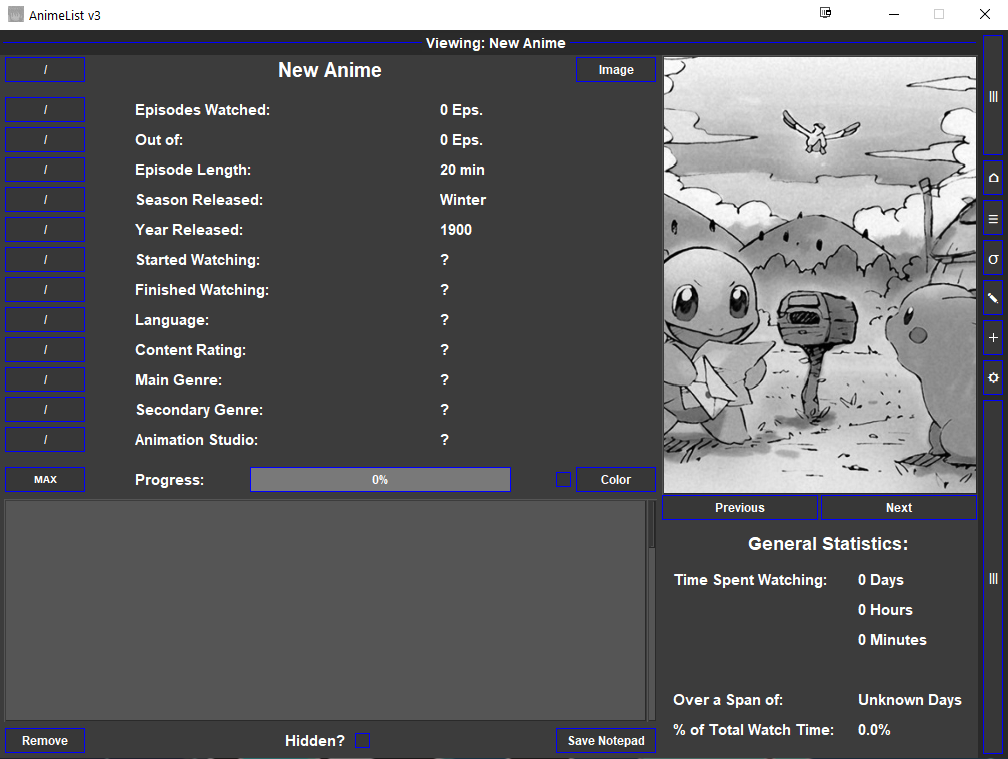
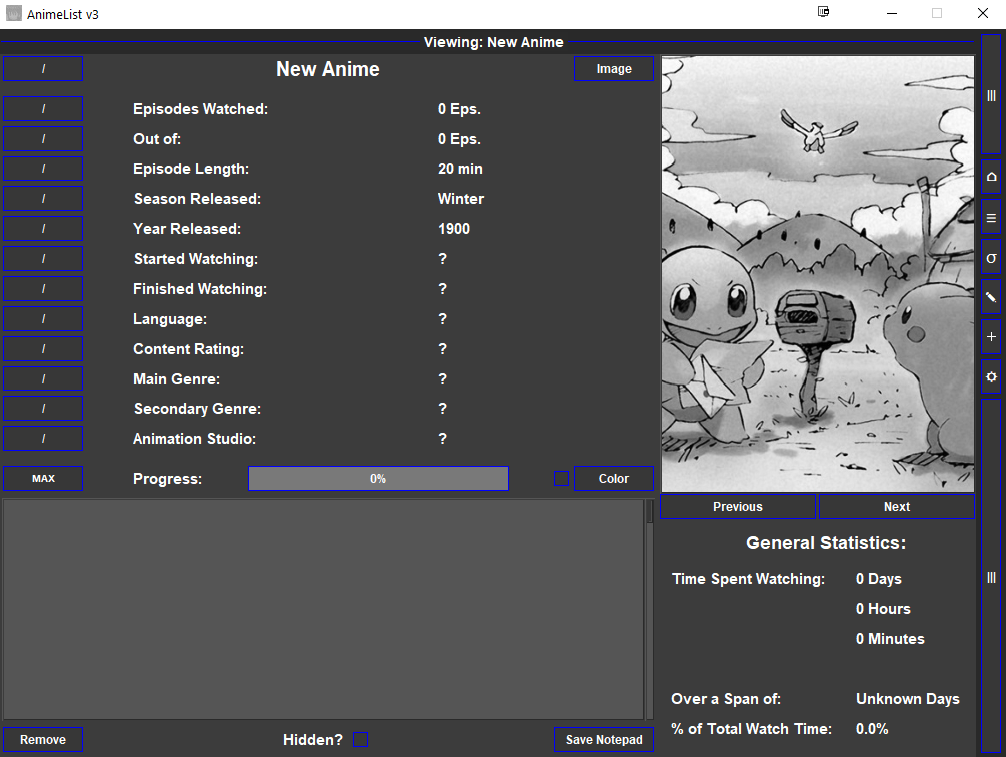
Final Tweaks for Release - increased JTextArea size in AnimePanel and NotesPanel - realigned JScrollBars in StatisticsPanel - edited README - replaced some tutorial images

diff --git a/StatisticsPanel.java b/StatisticsPanel.java
@@ -446,7 +446,7 @@ public class StatisticsPanel extends JPanel {
 
         JScrollBar scrollBar = scrollPane.getVerticalScrollBar();
         scrollPane.remove(scrollBar); 
-        scrollBar.setPreferredSize(new Dimension(10,120));
+        scrollBar.setPreferredSize(new Dimension(10,110));
         scrollBar.setUI(new CustomScrollBarUI(controller,controller.getFieldColor("buttons"),controller.getFieldColor("background1")));
         scrollBar.setBorder(javax.swing.BorderFactory.createEmptyBorder());
         
@@ -512,7 +512,7 @@ public class StatisticsPanel extends JPanel {
 
         scrollBar = scrollPane.getVerticalScrollBar();
         scrollPane.remove(scrollBar); 
-        scrollBar.setPreferredSize(new Dimension(10,120));
+        scrollBar.setPreferredSize(new Dimension(10,110));
         scrollBar.setUI(new CustomScrollBarUI(controller,controller.getFieldColor("buttons"),controller.getFieldColor("background1")));
         scrollBar.setBorder(javax.swing.BorderFactory.createEmptyBorder());
         
@@ -578,7 +578,7 @@ public class StatisticsPanel extends JPanel {
 
         scrollBar = scrollPane.getVerticalScrollBar();
         scrollPane.remove(scrollBar); 
-        scrollBar.setPreferredSize(new Dimension(10,120));
+        scrollBar.setPreferredSize(new Dimension(10,110));
         scrollBar.setUI(new CustomScrollBarUI(controller,controller.getFieldColor("buttons"),controller.getFieldColor("background1")));
         scrollBar.setBorder(javax.swing.BorderFactory.createEmptyBorder());
         
@@ -644,7 +644,7 @@ public class StatisticsPanel extends JPanel {
 
         scrollBar = scrollPane.getVerticalScrollBar();
         scrollPane.remove(scrollBar); 
-        scrollBar.setPreferredSize(new Dimension(10,120));
+        scrollBar.setPreferredSize(new Dimension(10,110));
         scrollBar.setUI(new CustomScrollBarUI(controller,controller.getFieldColor("buttons"),controller.getFieldColor("background1")));
         scrollBar.setBorder(javax.swing.BorderFactory.createEmptyBorder());
         
@@ -710,7 +710,7 @@ public class StatisticsPanel extends JPanel {
 
         scrollBar = scrollPane.getVerticalScrollBar();
         scrollPane.remove(scrollBar); 
-        scrollBar.setPreferredSize(new Dimension(10,120));
+        scrollBar.setPreferredSize(new Dimension(10,110));
         scrollBar.setUI(new CustomScrollBarUI(controller,controller.getFieldColor("buttons"),controller.getFieldColor("background1")));
         scrollBar.setBorder(javax.swing.BorderFactory.createEmptyBorder());
         
@@ -776,7 +776,7 @@ public class StatisticsPanel extends JPanel {
 
         scrollBar = scrollPane.getVerticalScrollBar();
         scrollPane.remove(scrollBar); 
-        scrollBar.setPreferredSize(new Dimension(10,120));
+        scrollBar.setPreferredSize(new Dimension(10,110));
         scrollBar.setUI(new CustomScrollBarUI(controller,controller.getFieldColor("buttons"),controller.getFieldColor("background1")));
         scrollBar.setBorder(javax.swing.BorderFactory.createEmptyBorder());
         

diff --git a/MainGUI.java b/MainGUI.java
@@ -10,6 +10,7 @@ import java.awt.event.ActionListener;
 
 public class MainGUI extends JFrame {
     private static final long serialVersionUID = 1L; 
+    String release = "1.0.4";
 
     Controller controller;
     JLayeredPane pane;
@@ -284,7 +285,7 @@ public class MainGUI extends JFrame {
         panelA.setPreferredSize(leftDim);
         panelA.setBackground(controller.getFieldColor("background1"));
 
-        generateNavPanel("Welcome to AnimeList v3 1.0.3");
+        generateNavPanel("Welcome to AnimeList v3 " +release);
         
         JLabel spacer = new JLabel(); // creating some gapping without flowlayout hgap.
         spacer.setPreferredSize(new Dimension(1,3));

diff --git a/NotesPanel.java b/NotesPanel.java
@@ -49,7 +49,7 @@ public class NotesPanel extends JPanel{
         leftPanel.setBackground(controller.getFieldColor("background1"));
         add(leftPanel, BorderLayout.WEST);
 
-        int n = 3000;
+        int n = 9000;
 
         leftArea = new JTextArea();
         leftArea.setPreferredSize(new Dimension(748,n));
@@ -91,7 +91,7 @@ public class NotesPanel extends JPanel{
         rightPanel.setBackground(controller.getFieldColor("background1"));
         add(rightPanel, BorderLayout.EAST);
 
-        int n = 3000;
+        int n = 9000;
 
         rightArea = new JTextArea();
         rightArea.setPreferredSize(new Dimension(230,n));

diff --git a/AnimePanel.java b/AnimePanel.java
@@ -379,7 +379,7 @@ public class AnimePanel extends JPanel {
         leftBottomPanel.setBackground(controller.getAnimeColor(reference));
         bottomPanel.add(leftBottomPanel,BorderLayout.WEST);
 
-        int n = 1000;
+        int n = 2000;
 
         JLabel spacer = new JLabel(); // spacer
         spacer.setPreferredSize(new Dimension(4,10));

diff --git a/README.md b/README.md
@@ -1,31 +1,54 @@
 # AnimeList 
 
-A lightweight application made with Swing, the goal of this project is to provide a tool for a very hands on approach to recording the anime a person has watched. In addition to the list like functionality, the program includes individual pages for each show, statistics, UI customization, and more.
+A lightweight application made with Swing, the goal of this program is to provide a tool for a very hands on approach to recording the anime a person has watched. In addition to the list like functionality, the program includes individual pages for each show, a statistics page, UI customization, and more.
 
 The motivation behind this project is a frustration in the structure and implementation of similar services. Often they provide a list format to record when and what anime the user has watched, but the user doesn't get to choose exactly what that anime is or the details about it. By putting all the data entry in the hands of the user, it removes those limits, and the user decides how they want their list to be represented.
 
+* [Installation](#installation)
+* [Usage](#usage)
+  + [Navigating the Program](#navigating-the-program)
+  + [Adding and Editing Anime](#adding-and-editing-anime)
+  + [Using the List Page](#using-the-list-page)
+  + [Using the Statistics Page](#using-the-statistics-page)
+  + [Using the Notes Page](#using-the-notes-page)
+  + [Using the Settings Page](#using-the-Settings-page)
+* [Usage Recommendations](#usage-recommendations)
+* [Contributing](#Contributing)
+* [License](#license)
+
+
 ## Installation
 
-Click [here]() to download the program. Once competed, move the .zip to the directory of choice and extract the files. Create a shortcut if you would like, but the executable file must stay with the resource files to function correctly. This program requires JRE 1.8 or newer to run.
+Click [here](https://github.com/Blueredemption/AnimeList/releases/tag/1.0.4) to download the program. Once competed, move the .zip to the directory of choice and extract the files. Create a shortcut if you would like, but the executable file must stay with the resource files to function correctly. This program requires JRE 1.8 or newer to run.
 
 ## Usage
 
 ### Navigating the Program
 Navigation about the program is done using the navigation tab on the right. It can be expanded and contracted by clicking on the buttons with three vertical lines.
 
+<details><summary>Images</summary>
+
 ![alt text](https://github.com/Blueredemption/AnimeList/blob/master/Images/Usage%20Tutorial/Main%20Page.png?raw=true)
 
 ![alt text](https://github.com/Blueredemption/AnimeList/blob/master/Images/Usage%20Tutorial/Popout%20Navigation.png?raw=true)
 
+</details>
+<br>
+
 ### Adding and Editing Anime
 
-To add an anime, click the "+" / "New Anime" button on the navigation tab. Once clicked the program will create a new anime, add it to the list, and bring you directly to the editing page. Each button is self-explanatory. Once clicked, in most cases the user is prompted to fill the field through a combination of dropdowns, buttons, and text areas that appear in the bottom right portion of the window. In the case of adding an image, a file selector window appears. 
+To add an anime, click the "+" / "New Anime" button on the navigation tab. Once clicked the program will create a new anime, add it to the list, and bring you directly to the editing page. Each button is self-explanatory. Once clicked, in most cases the user is prompted to fill the field through a combination of dropdowns, buttons, and text fields that appear in the bottom right portion of the window. In the case of adding an image, a file selector window appears. 
 
 A few tips: When it comes to the notepad in the bottom left, for what is entered to stay there you must click the save button. If you navigate away and then back that text will be gone if not saved prior. Also, regarding the "Color" button, this overrides the default color for list entries. Not only does this change the color of the background and some components in this page, it also changes these for the entry in the list page. 
 
 Finally, what is entered is ultimately up to you, though the more details the more accurate and useful the statistics page and sorting algorithms will be.
 
+<details><summary>Image</summary>
+
 ![alt text](https://github.com/Blueredemption/AnimeList/blob/master/Images/Usage%20Tutorial/Anime%20Page.png?raw=true)
+
+</details>
+<br>
 
 ### Using the List Page
 
@@ -33,31 +56,53 @@ To go to the list page, click the "≡" / "Anime List" button on the navigation 
 
 Note: The filters and hidden options in the list page are connected to there counterparts in the statistics page. This means, for example, if you filter by anime watched in 2018 in the list page, that filter will be applied in the statistics page if you go there. The reset button removes these filters in both pages.
 
+<details><summary>Image</summary>
+
 ![alt text](https://github.com/Blueredemption/AnimeList/blob/master/Images/Usage%20Tutorial/List%20Page.png?raw=true)
+
+</details>
+<br>
 
 ### Using the Statistics Page
 
 To go to the statistics page, click the "σ" / "Statistics" button on the navigation tab. Here you can see a breakdown of the anime you have entered by a variety of different categories. The more you add, the more interesting and inciteful information you can find. At the top of the page you can filter the anime just like in the list page. The dropdowns for each category are on scroll panes, so no anime goes unrepresented. You can navigate to an anime entry by clicking on the name in the dropdown. In the case of the "Favorite Anime #" dropdowns, you can select your favorites and their corresponding image will be displayed.
 
+<details><summary>Image</summary>
+
 ![alt text](https://github.com/Blueredemption/AnimeList/blob/master/Images/Usage%20Tutorial/Statistics%20Page.png?raw=true)
+
+</details>
+<br>
 
 ### Using the Notes Page
 
 To go to the notes page, click the "✎" / "Notepad" button on the navigation tab. It is simply two text areas that you can use for whatever you want. Just make sure to save before navigating away.
 
+<details><summary>Image</summary>
+
 ![alt text](https://github.com/Blueredemption/AnimeList/blob/master/Images/Usage%20Tutorial/Notes%20Page.png?raw=true)
+
+</details>
+<br>
 
 ### Using the Settings Page
 
 To go to the settings page, click the "⛭" / "Settings" button on the navigation tab. Here you can change the colors for everything in the program, or just choose between the presets. This is also where you can change the image displayed on the homescreen.
 
+<details><summary>Image</summary>
+
 ![alt text](https://github.com/Blueredemption/AnimeList/blob/master/Images/Usage%20Tutorial/Settings%20Page.png?raw=true)
+
+</details>
+<br>
 
 ## Usage Recommendations
 
-If you are using this program for the first time and you don't know the dates of when you started or finished the anime you are entering, you should try to enter them in order of when you watched them, starting with the first. The algorithm for sorting by date started sorts by when they are added for anime that don't have start dates, so keep that in mind of you want more accurate ordering.
+1) If you are using this program for the first time and you don't know the dates of when you started or finished the anime you are entering, you should try to enter them in order of when you watched them, starting with the first. The algorithm for sorting by date started sorts by when they are added for anime that don't have start dates, so keep that in mind of you want more accurate ordering.
 
-It is recommended that you back up the "Anime Objects" file if you want to make sure you don't lose all of your hard work from an *act of god*. This is where all of your anime entries are stored.
+2) It is recommended that you back up the "Anime Objects" file if you want to make sure you don't lose all of your hard work from an *act of god*. This is where all of your anime entries are stored.
+
+3) When selecting images, it is best to move them into the "Images/Anime" file before selecting them in the program. This way the image is less likely to be moved or deleted unintentionally, which will break the image inside the program.
 
 ## Contributing
 
